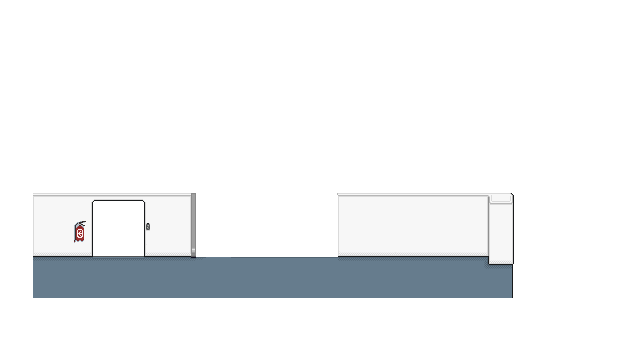
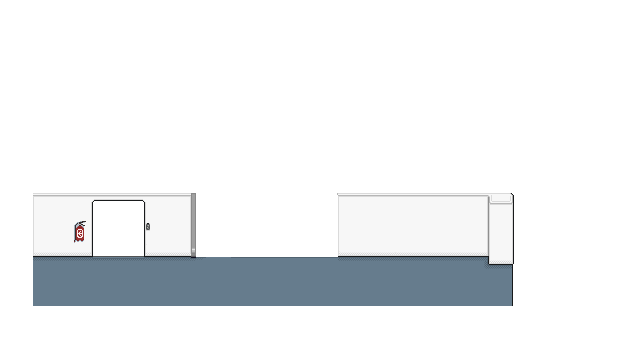
Apartment hallway is now wider to account for larger door

Changed region(s): [[0.0312, 0.825, 0.8125, 0.8556]]

diff --git a/scenes/apartment/src/layout.rs b/scenes/apartment/src/layout.rs
@@ -209,7 +209,7 @@ fn spawn(
             asset: assets::HALLWAY_DOOR,
             color: Some(PRIMARY_COLOR),
             is_hallway_entity: true,
-            position: vec2(-204.0, -121.0),
+            position: vec2(-204.0, -130.0),
             anchor: Anchor::BottomCenter,
             ..default()
         },
@@ -218,7 +218,7 @@ fn spawn(
             asset: assets::HALLWAY_DOOR,
             color: Some(PRIMARY_COLOR),
             is_hallway_entity: true,
-            position: vec2(19.0, -121.0),
+            position: vec2(19.0, -130.0),
             anchor: Anchor::BottomCenter,
             ..default()
         },
